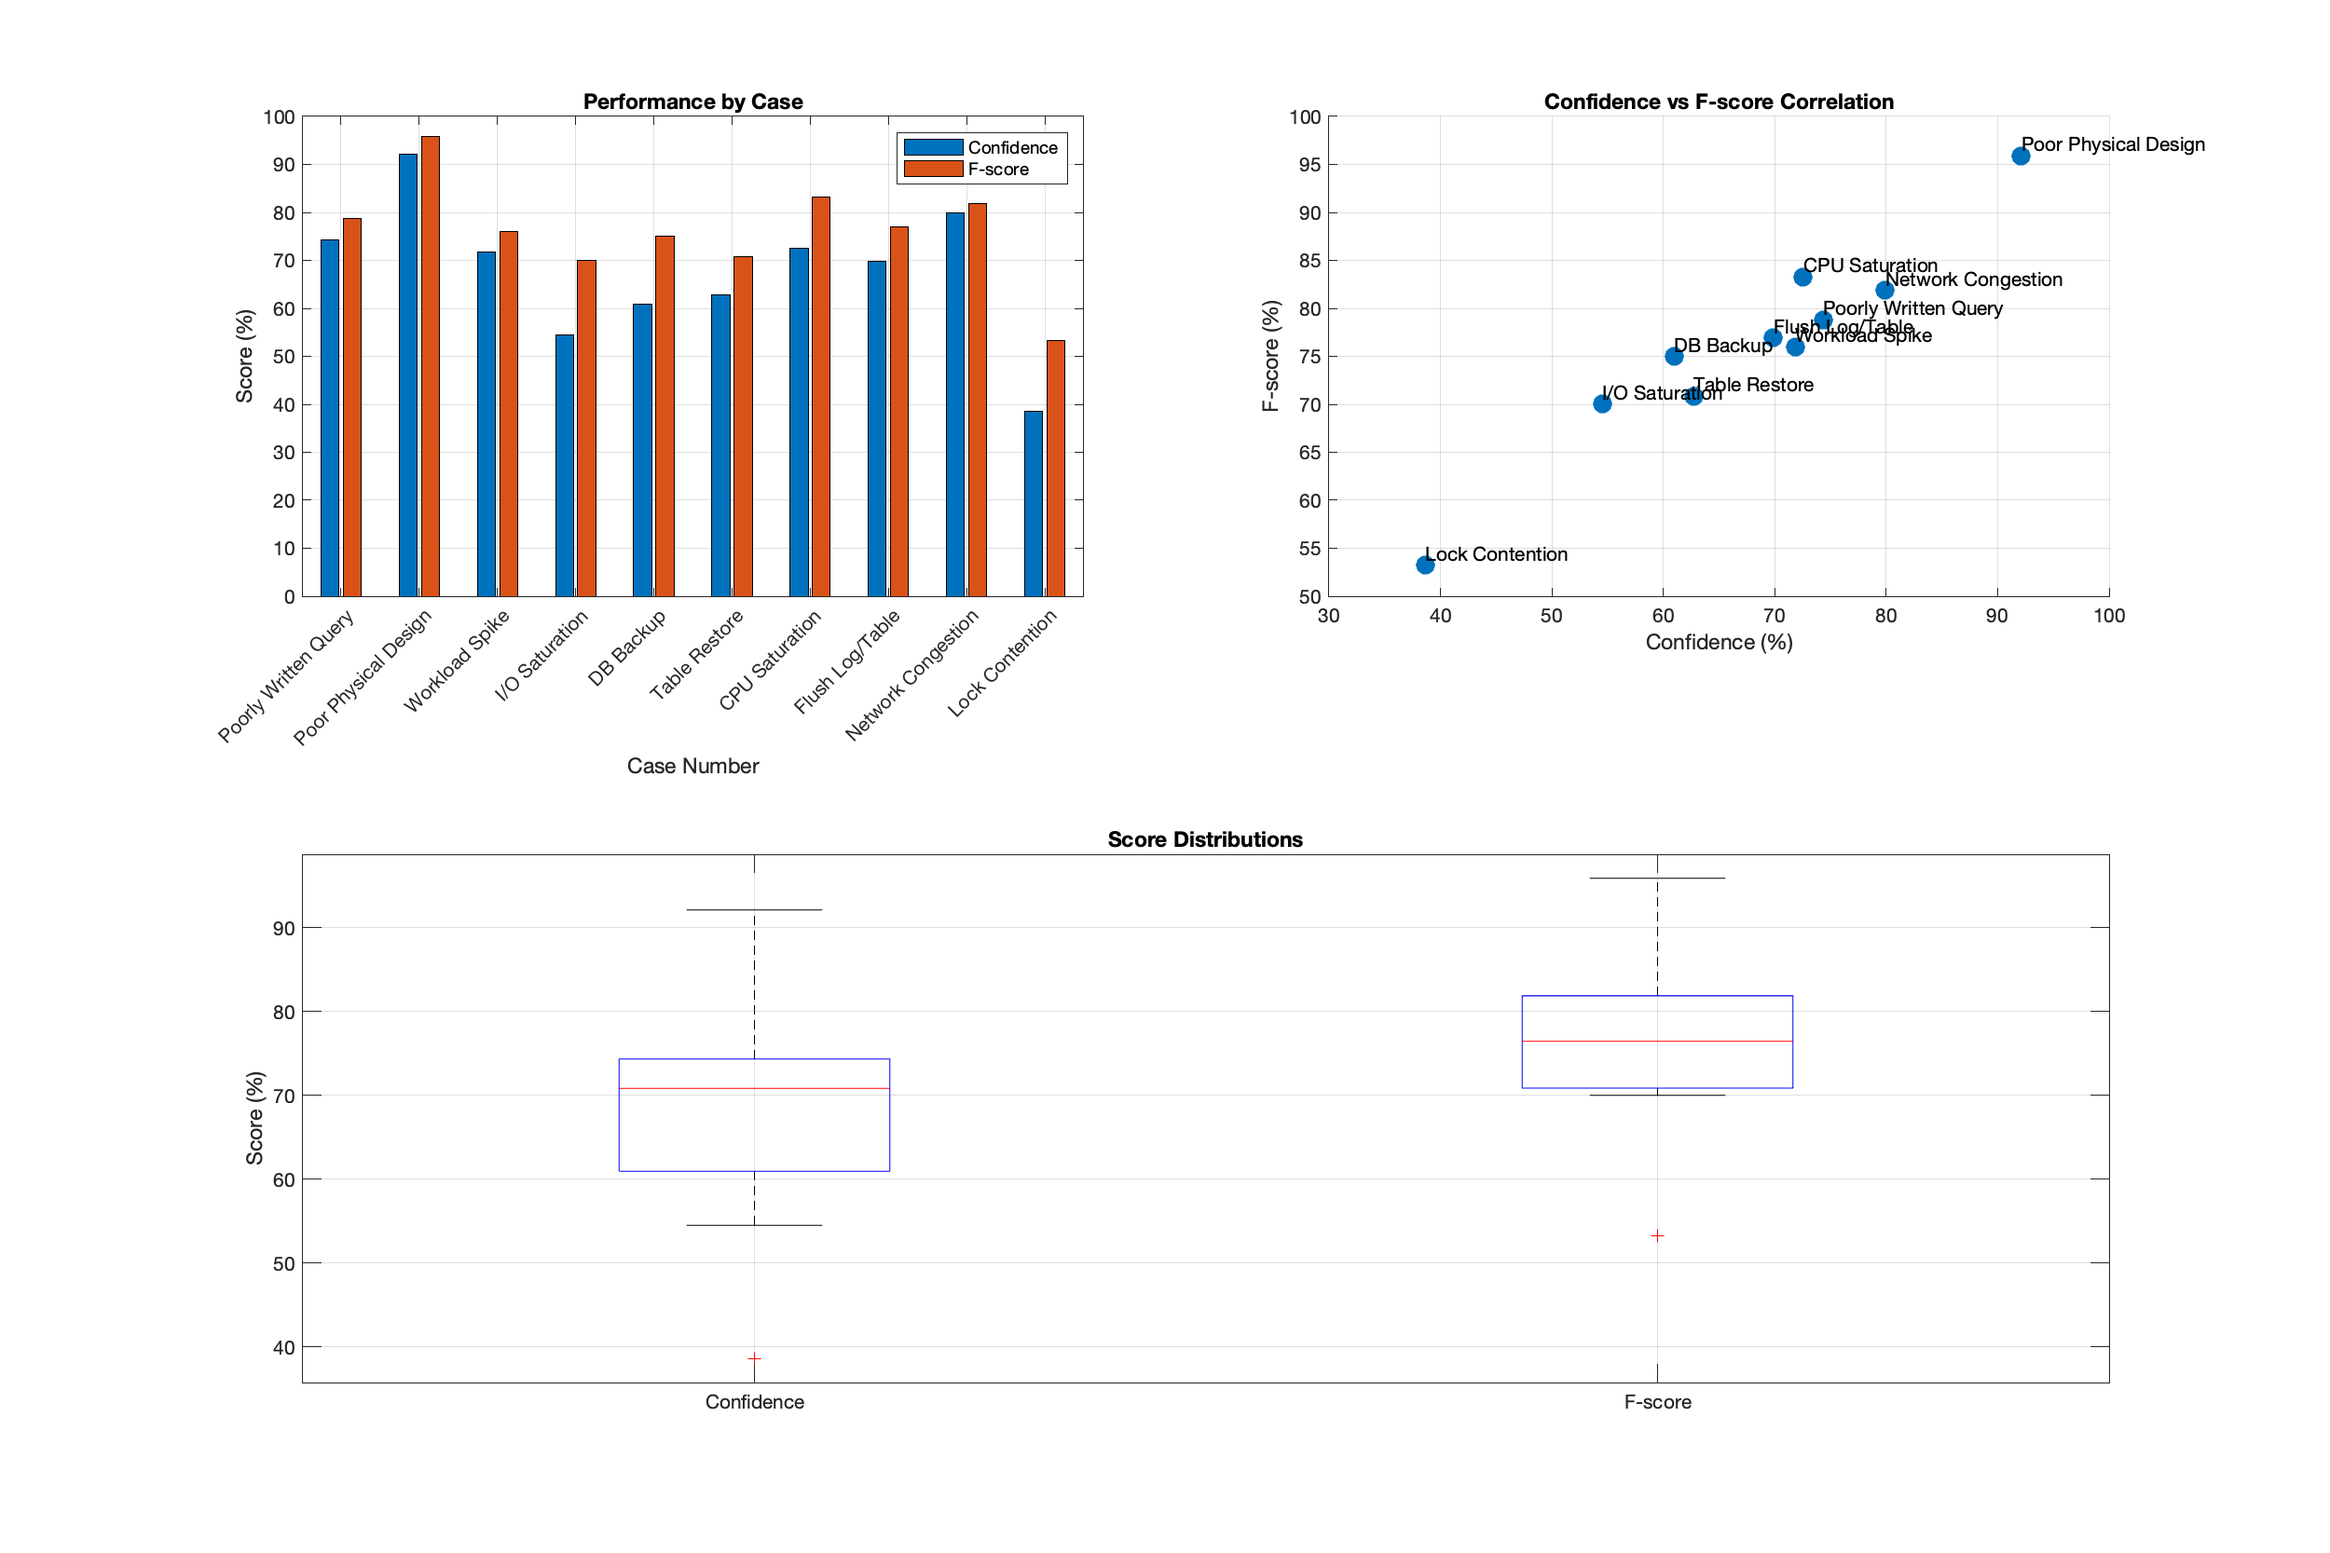
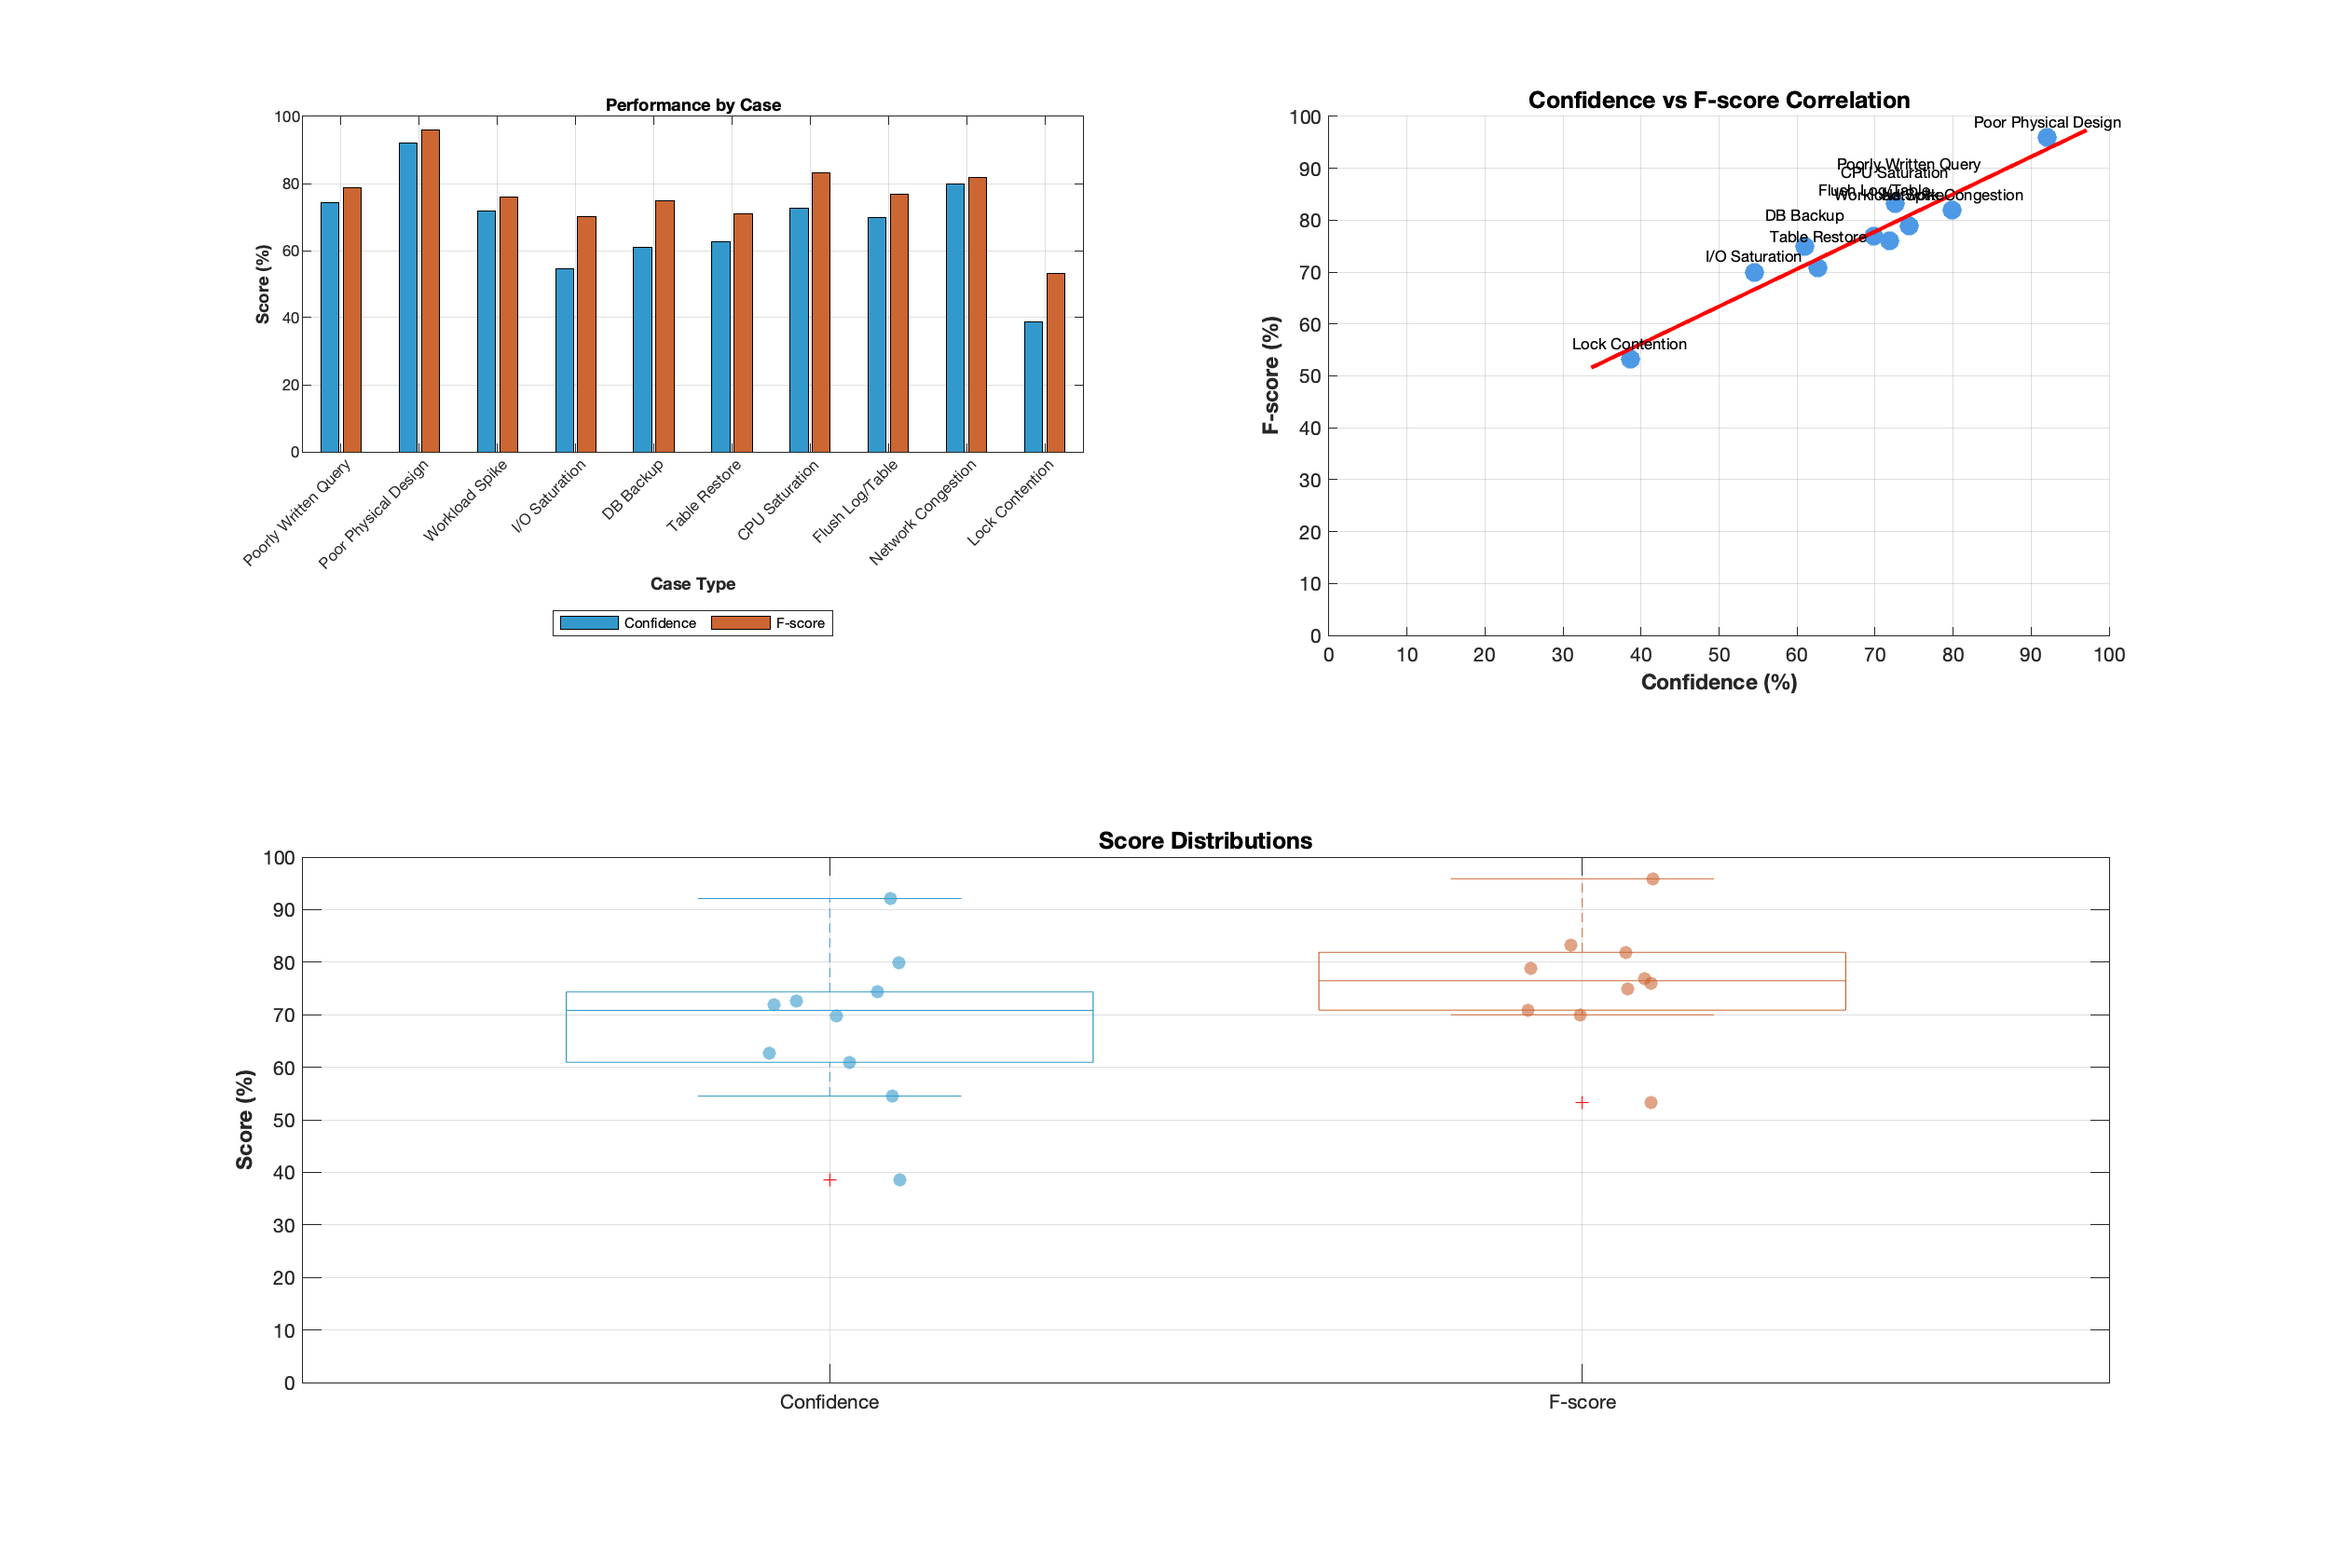
plots

diff --git a/scripts/plot_comprehensive_analysis.m b/scripts/plot_comprehensive_analysis.m
@@ -3,74 +3,72 @@ function plot_comprehensive_analysis(conf_llm, fscore_llm, case_names)
         case_names = arrayfun(@(x) sprintf('Case %d', x), 1:length(conf_llm), 'UniformOutput', false);
     end
     
-    % Figure 1: Performance Overview
+    % Figure setup
     figure('Name', 'Performance Overview', 'Position', [100, 100, 1200, 800]);
     
     % Bar plot comparing metrics
     subplot(2,2,1);
-    bar([conf_llm, fscore_llm]);
-    title('Performance by Case');
-    xlabel('Case Number');
-    ylabel('Score (%)');
-    legend('Confidence', 'F-score');
+    b = bar([conf_llm, fscore_llm], 'grouped', 'BarWidth', 0.8);
+    b(1).FaceColor = [0.2 0.6 0.8];
+    b(2).FaceColor = [0.8 0.4 0.2];
+    title('Performance by Case', 'FontWeight', 'bold', 'FontSize', 12);
+    xlabel('Case Type', 'FontWeight', 'bold');
+    ylabel('Score (%)', 'FontWeight', 'bold');
+    legend('Confidence', 'F-score', 'Location', 'southoutside', 'Orientation', 'horizontal');
     grid on;
-    set(gca, 'XTickLabel', case_names, 'XTickLabelRotation', 45);
+    ax = gca;
+    ax.XTickLabel = case_names;
+    ax.XTickLabelRotation = 45;
+    ax.TickLabelInterpreter = 'none';
+    ax.FontSize = 8;
+    ylim([0 100]);
     
-    % Scatter plot with case labels
+    % Scatter plot with improved label placement
     subplot(2,2,2);
-    scatter(conf_llm, fscore_llm, 100, 'filled');
-    text(conf_llm, fscore_llm, case_names, 'VerticalAlignment', 'bottom');
-    title('Confidence vs F-score Correlation');
-    xlabel('Confidence (%)');
-    ylabel('F-score (%)');
-    grid on;
+    scatter(conf_llm, fscore_llm, 100, 'filled', 'MarkerFaceColor', [0.3 0.6 0.9]);
+    hold on;
     
-    % Distribution plots
+    % Add trend line with confidence bounds
+    p = polyfit(conf_llm, fscore_llm, 1);
+    x_trend = linspace(min(conf_llm)-5, max(conf_llm)+5, 100);
+    y_trend = polyval(p, x_trend);
+    plot(x_trend, y_trend, 'r-', 'LineWidth', 2);
+    
+    % Smart label placement to avoid overlap
+    for i = 1:length(case_names)
+        % Calculate offset based on point density
+        nearby_points = sum(abs(conf_llm - conf_llm(i)) < 5 & abs(fscore_llm - fscore_llm(i)) < 5);
+        offset = 3 * nearby_points;
+        text(conf_llm(i), fscore_llm(i)+offset, case_names{i}, ...
+             'FontSize', 8, 'HorizontalAlignment', 'center');
+    end
+    
+    title('Confidence vs F-score Correlation', 'FontWeight', 'bold', 'FontSize', 12);
+    xlabel('Confidence (%)', 'FontWeight', 'bold');
+    ylabel('F-score (%)', 'FontWeight', 'bold');
+    grid on;
+    axis([0 100 0 100]);
+    hold off;
+    
+    % Box plot with individual points
     subplot(2,2,[3,4]);
-    boxplot([conf_llm(:), fscore_llm(:)], {'Confidence', 'F-score'});
-    title('Score Distributions');
-    ylabel('Score (%)');
+    boxplot([conf_llm(:), fscore_llm(:)], {'Confidence', 'F-score'}, ...
+            'Labels', {'Confidence', 'F-score'}, ...
+            'Widths', 0.7, 'Colors', [0.2 0.6 0.8; 0.8 0.4 0.2]);
+    hold on;
+    % Add individual points
+    jitter = 0.2;
+    scatter(ones(size(conf_llm)) + (rand(size(conf_llm))-0.5)*jitter, conf_llm, 50, [0.2 0.6 0.8], 'filled', 'MarkerFaceAlpha', 0.6);
+    scatter(2*ones(size(fscore_llm)) + (rand(size(fscore_llm))-0.5)*jitter, fscore_llm, 50, [0.8 0.4 0.2], 'filled', 'MarkerFaceAlpha', 0.6);
+    hold off;
+    
+    title('Score Distributions', 'FontWeight', 'bold', 'FontSize', 12);
+    ylabel('Score (%)', 'FontWeight', 'bold');
     grid on;
+    ylim([0 100]);
     
-    % Figure 2: Detailed Analysis
-    figure('Name', 'Detailed Analysis', 'Position', [150, 150, 1200, 800]);
-    
-    % Performance ranking
-    subplot(2,2,1);
-    [sorted_scores, idx] = sort(fscore_llm, 'descend');
-    barh(sorted_scores);
-    yticks(1:length(sorted_scores));
-    yticklabels(case_names(idx));
-    title('Cases Ranked by F-score');
-    xlabel('F-score (%)');
-    grid on;
-    
-    % Time series view
-    subplot(2,2,2);
-    plot(1:length(conf_llm), conf_llm, '-o', 1:length(fscore_llm), fscore_llm, '-s', 'LineWidth', 2);
-    title('Performance Trends');
-    xlabel('Case Number');
-    ylabel('Score (%)');
-    legend('Confidence', 'F-score', 'Location', 'best');
-    grid on;
-    
-    % Summary statistics table
-    subplot(2,2,[3,4]);
-    stats = [mean([conf_llm fscore_llm]); 
-            median([conf_llm fscore_llm]);
-            std([conf_llm fscore_llm]);
-            min([conf_llm fscore_llm]);
-            max([conf_llm fscore_llm])];
-    
-    uitable('Data', stats, ...
-            'RowName', {'Mean', 'Median', 'Std Dev', 'Min', 'Max'}, ...
-            'ColumnName', {'Confidence', 'F-score'}, ...
-            'Units', 'Normalized', ...
-            'Position', [0.1 0.1 0.8 0.8]);
-    
-    % Save plots
-    saveas(figure(1), 'performance_overview.png');
-    saveas(figure(2), 'detailed_analysis.png');
+    % Save plot
+    saveas(gcf, 'performance_overview.png');
     
     % Print summary statistics
     fprintf('\nSummary Statistics:\n');
